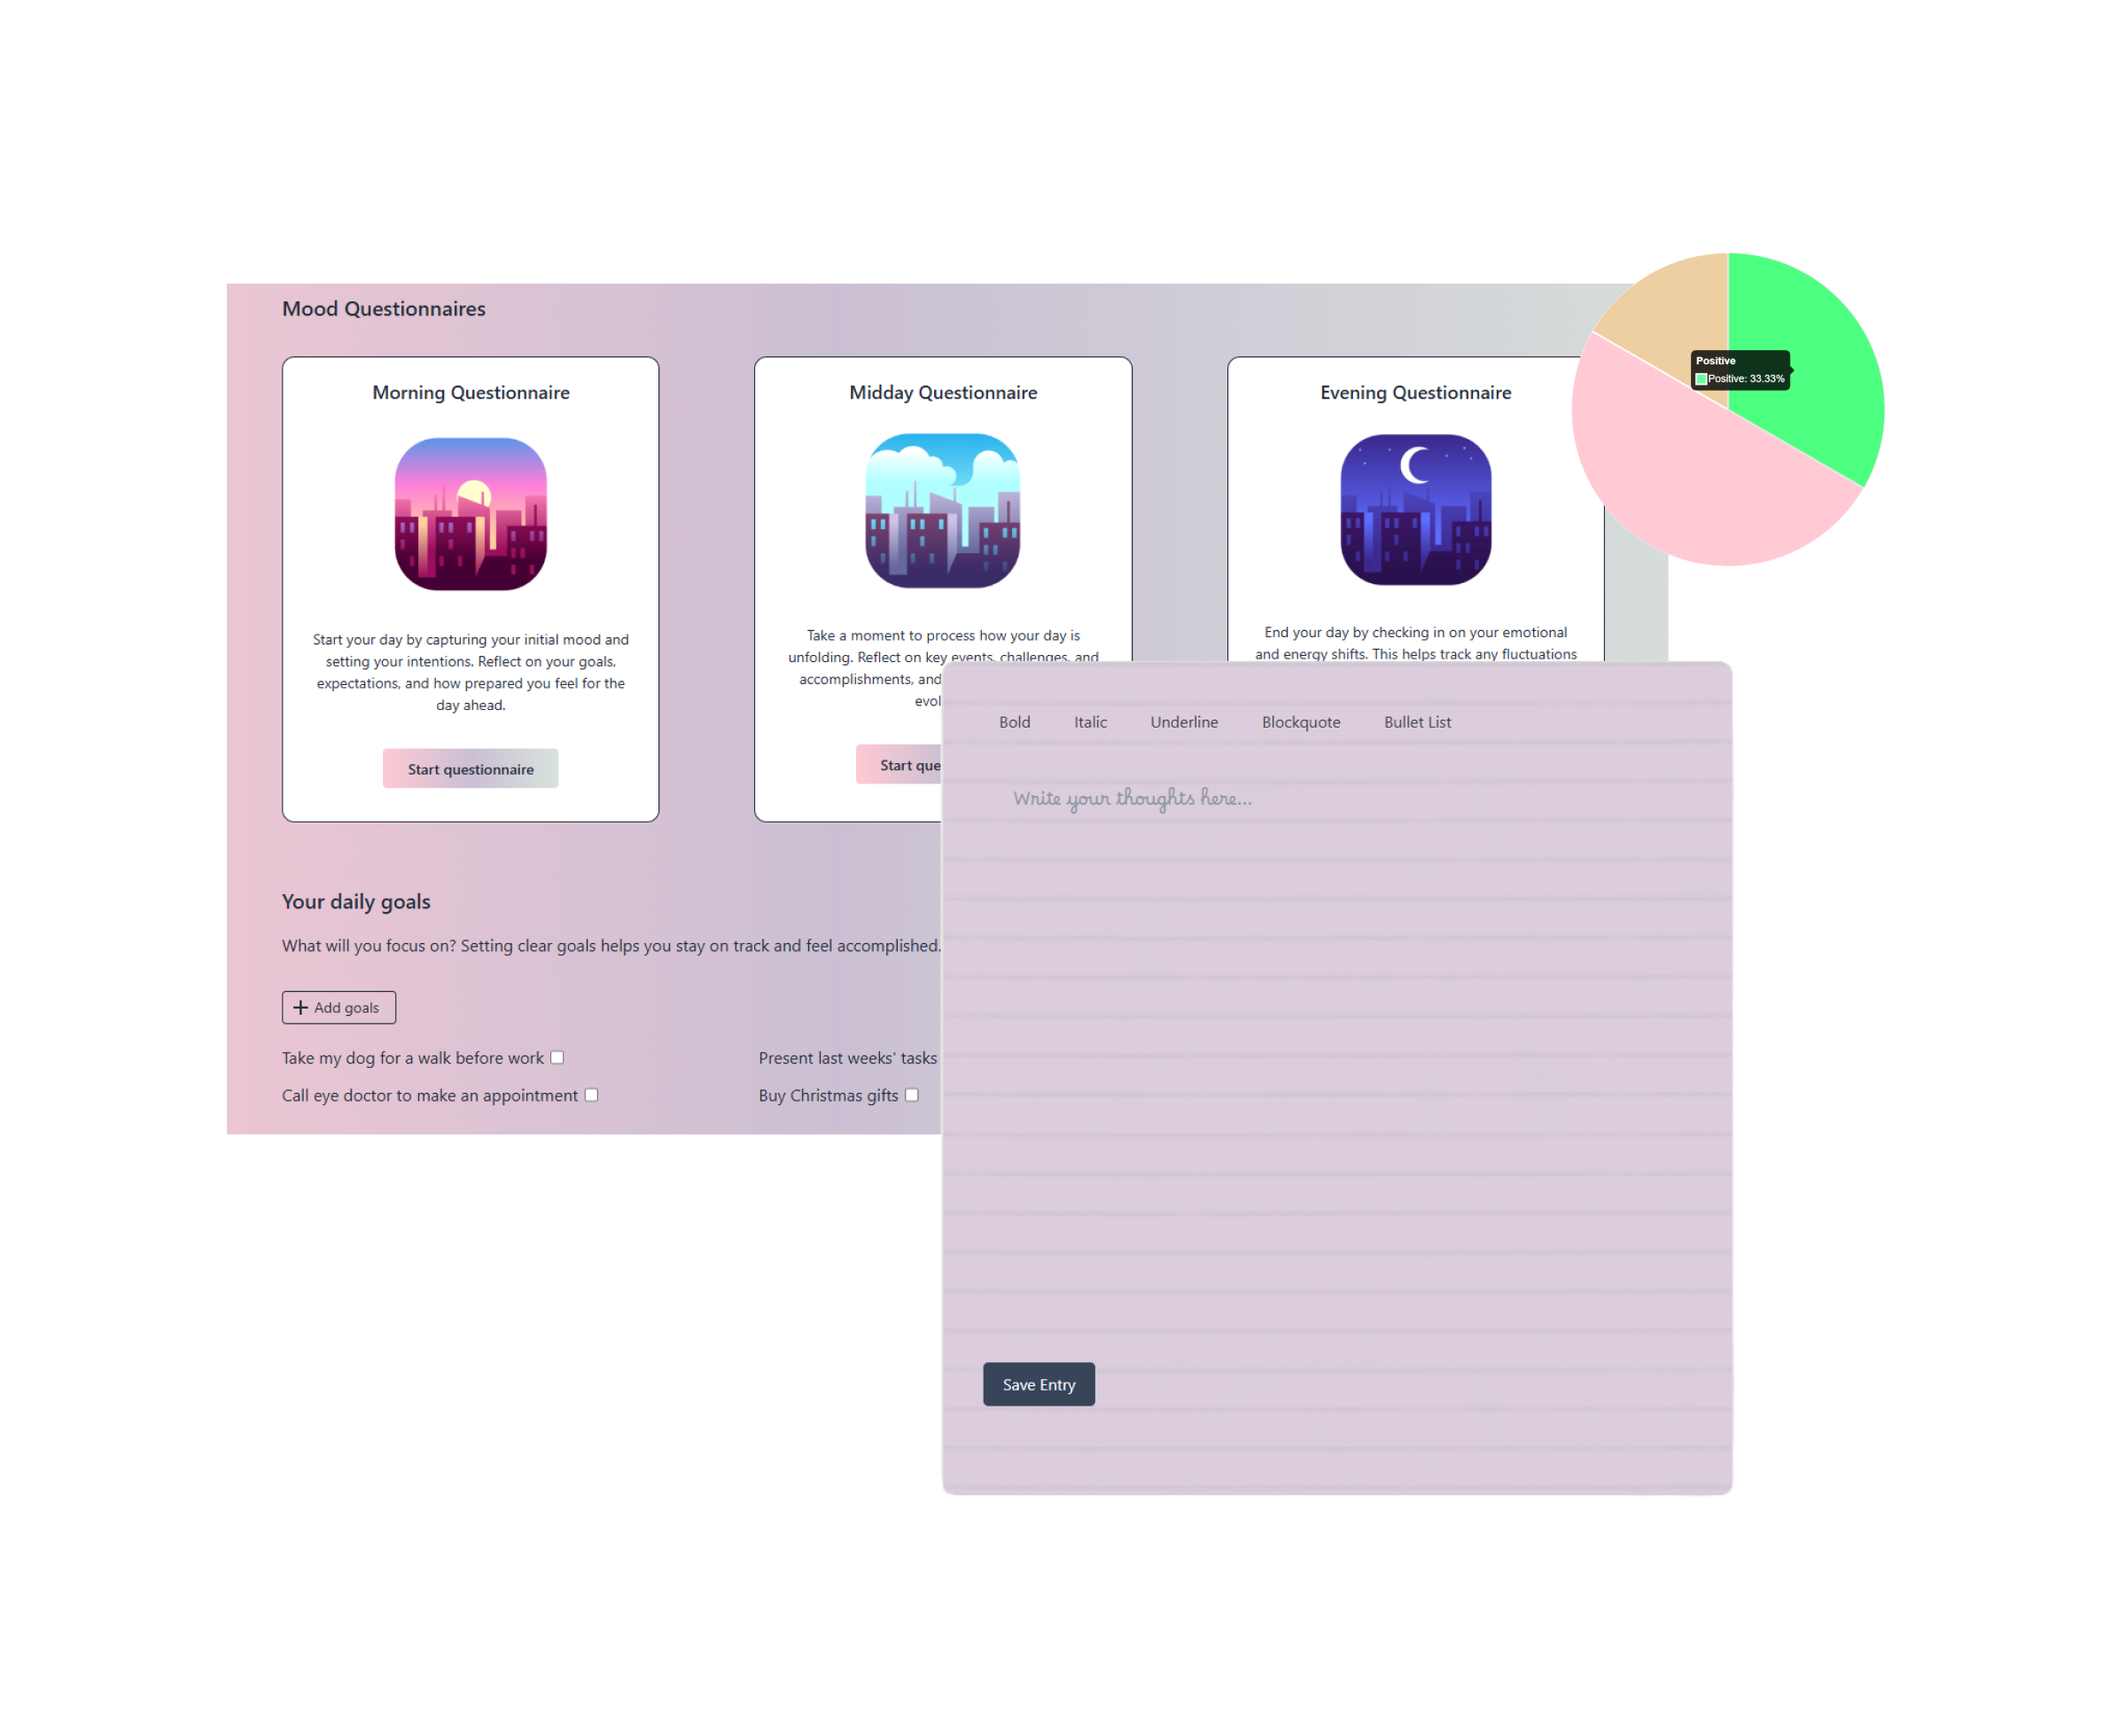
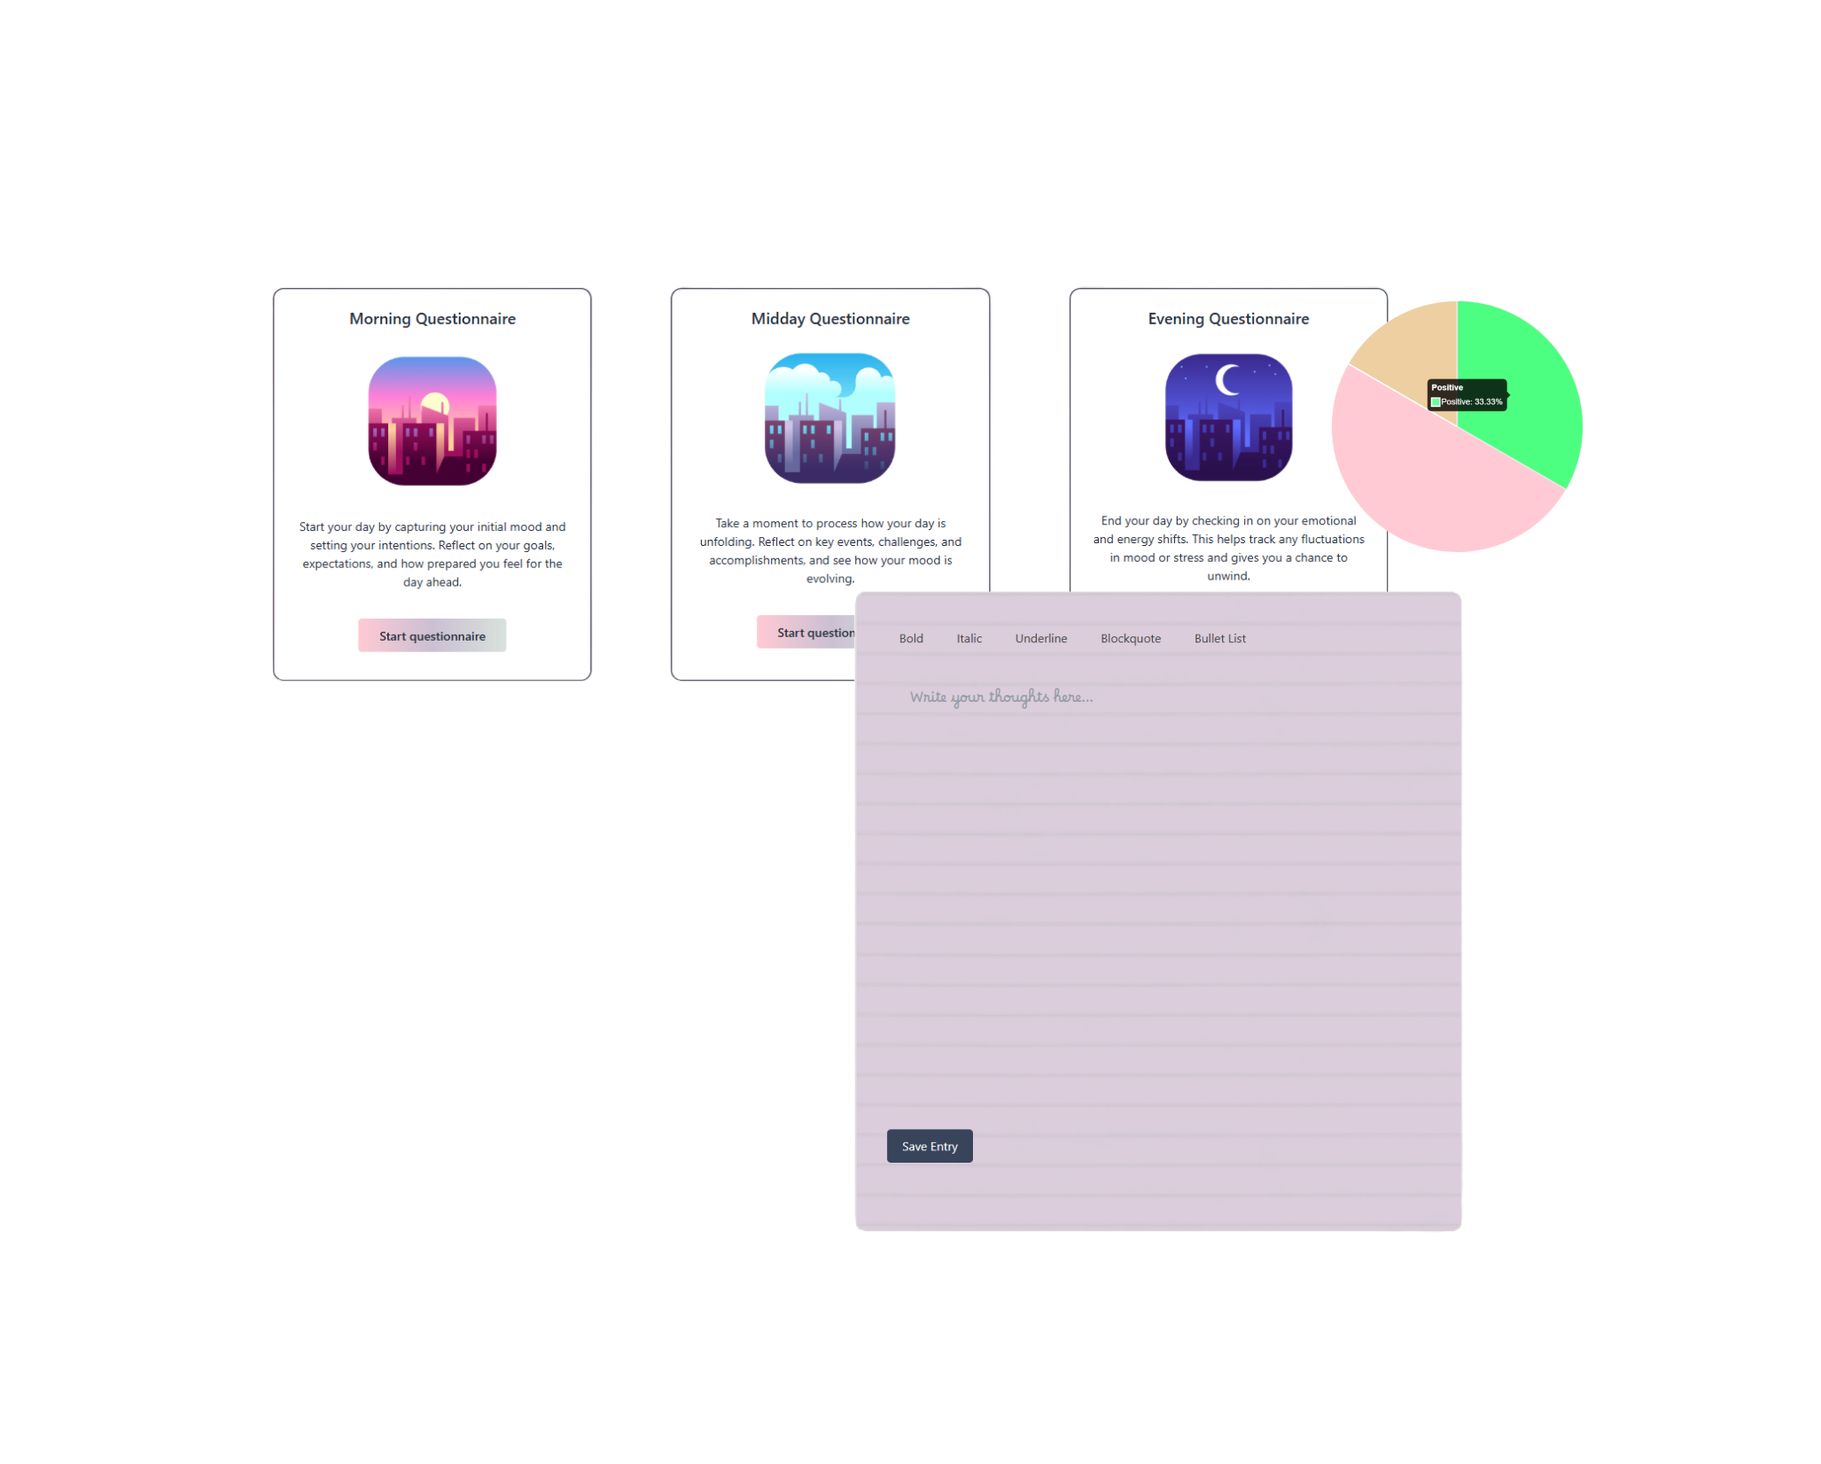
hero img changed on homepage guests

Changed region(s): [[0.0934, 0.1235, 0.9032, 0.8644]]

diff --git a/frontend/src/Components/Homepage/HomepageGuest.js b/frontend/src/Components/Homepage/HomepageGuest.js
@@ -14,7 +14,7 @@ import Avatar5 from "../../assets/avatar5.png";
 import Stars from "../../assets/stars.png";
 
 
-import HeroImg from "../../assets/hero-img.png";
+import HeroImg from "../../assets/hero-img2.png";
 import JournalEntry from "../../assets/journal-entry-with-text.png";
 import MoodTrendsGraph from "../../assets/mood-trends-graph.png";
 import SentimentAnalysisPieChart from "../../assets/sentiment-alaysis-pie-chart.png";
